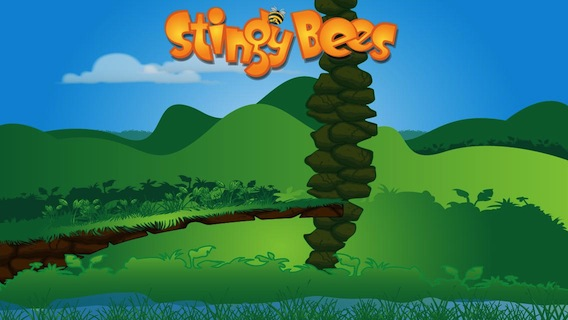
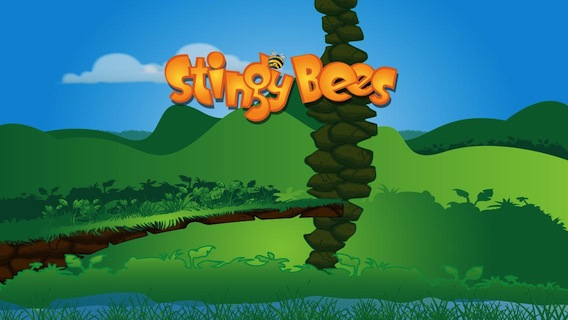
Fix play state background.

Changed region(s): [[0.2694, 0.0, 0.7183, 0.4062]]

diff --git a/Beezle/Classes/State/PlayState.m b/Beezle/Classes/State/PlayState.m
@@ -48,11 +48,7 @@ static int nextBeeIndex = 0;
 
 		CGSize winSize = [[CCDirector sharedDirector] winSize];
 
-#ifdef LITE_VERSION
-		CCSprite *backgroundSprite = [CCSprite spriteWithFile:@"PlayScene-Lite.jpg"];
-#else
 		CCSprite *backgroundSprite = [CCSprite spriteWithFile:@"PlayScene.jpg"];
-#endif
 		[backgroundSprite setPosition:[Utils screenCenterPosition]];
 		[self addChild:backgroundSprite];
 
@@ -60,11 +56,8 @@ static int nextBeeIndex = 0;
 		[[CCAnimationCache sharedAnimationCache] addAnimationsWithFile:@"Play-Animations.plist"];
 
 		_menuItemPlay = [CCMenuItemImage itemWithNormalImage:@"PlayButton.png" selectedImage:@"PlayButton.png" target:self selector:@selector(play)];
-#ifdef LITE_VERSION
-		[_menuItemPlay setPosition:CGPointMake(winSize.width / 2, winSize.height / 2 - 45.0f)];
-#else
-		[_menuItemPlay setPosition:CGPointMake(winSize.width / 2, winSize.height / 2 - 20.0f)];
-#endif
+		[_menuItemPlay setPosition:CGPointMake(winSize.width / 2, winSize.height / 2 - 26.0f)];
+
 		_menu = [CCMenu menuWithItems:_menuItemPlay, nil];
 		[_menu setPosition:CGPointZero];
 		[self addChild:_menu z:50];
@@ -74,11 +67,7 @@ static int nextBeeIndex = 0;
 		[_menuItemPlay runAction:swayAction];
 
 		_pollenExplodeSprite = [[CCSprite alloc] initWithSpriteFrameName:@"Play/PlayButtonPollen-1.png"];
-#ifdef LITE_VERSION
-		[_pollenExplodeSprite setPosition:CGPointMake(winSize.width / 2, winSize.height / 2 - 45.0f)];
-#else
-		[_pollenExplodeSprite setPosition:CGPointMake(winSize.width / 2, winSize.height / 2 - 20.0f)];
-#endif
+		[_pollenExplodeSprite setPosition:CGPointMake(winSize.width / 2, winSize.height / 2 - 26.0f)];
 
 		_universalScreenStartX = [Utils universalScreenStartX];
 
